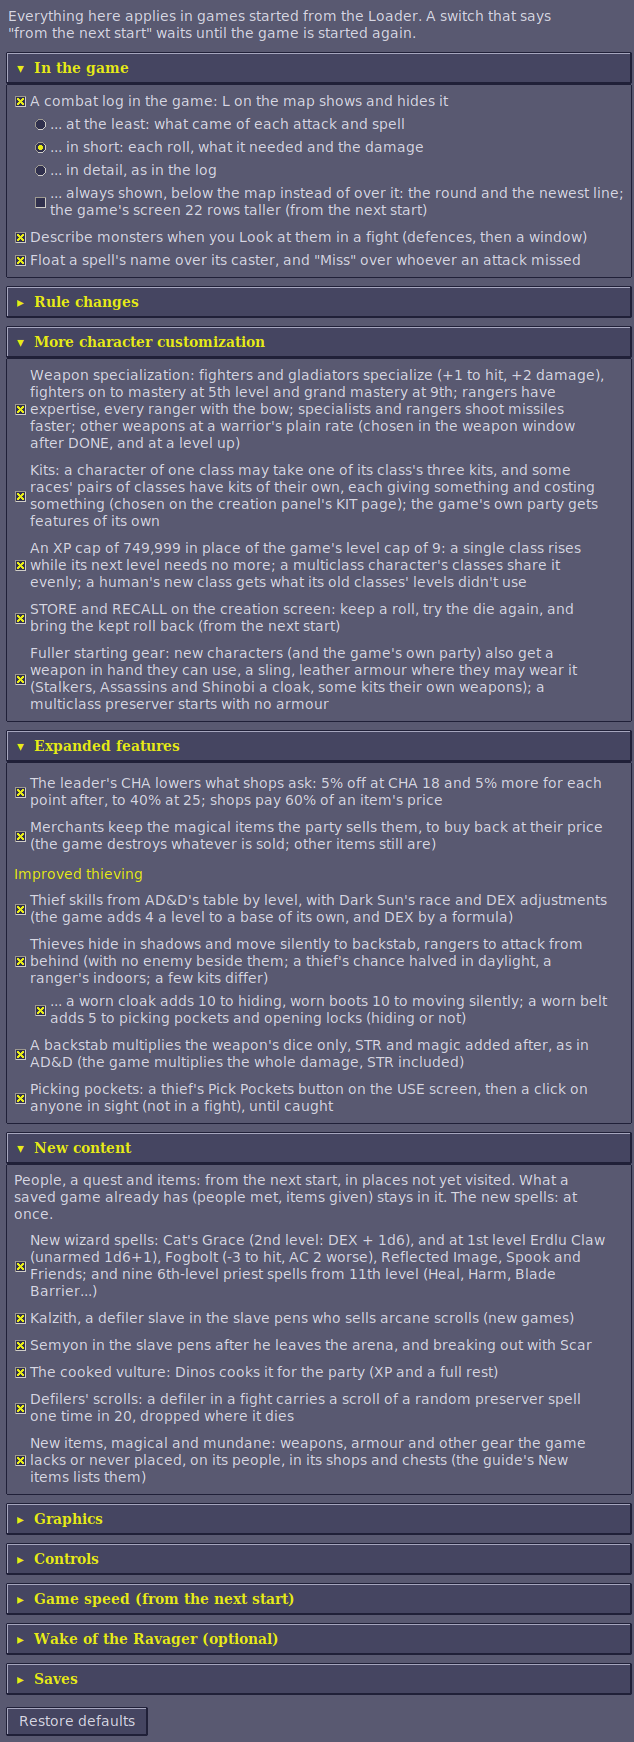
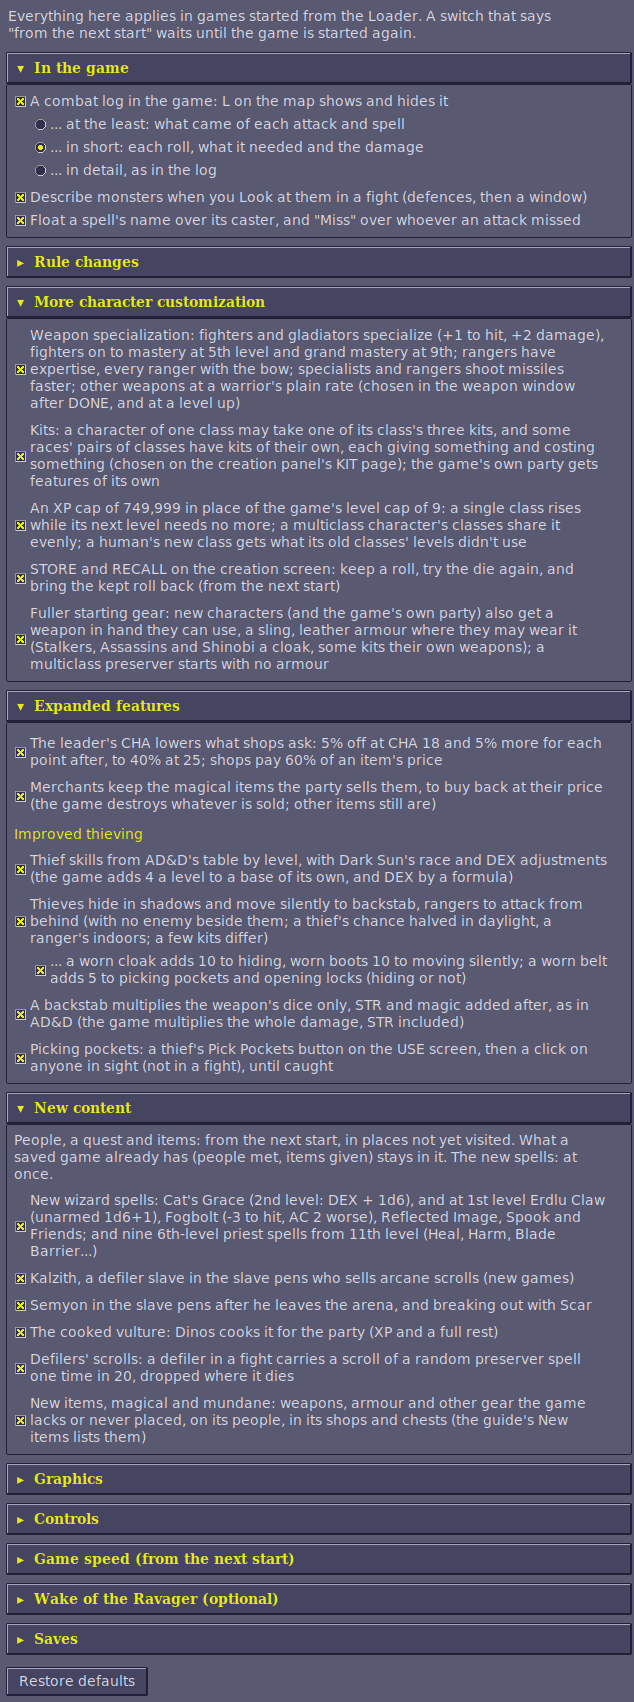
Docs: trim repeated lists, match option labels, retake the Options tab shot
The Options tab screenshot still showed the combat log strip taken out in
pull request 60. Release-note lists in the front page and changelog now
point to the folder; the Loader README's More pages section folds into
Where to start; the in-game thief skills note AD&D's 95 cap.

Claude-Session: https://claude.ai/code/session_01BNiWkhyZSJPYsN3zRrweVp

Changed region(s): [[0.0, 0.0, 1.0, 0.9965]]

diff --git a/patch-notes.html b/patch-notes.html
@@ -115,7 +115,7 @@ footer { max-width: 1080px; margin: 0 auto; padding-block: 28px 56px; border-top
 <header class="banner">
   <div class="eyebrow">Dark Sun: Shattered Lands · Mod</div>
   <h1>Obsidian Edition<br>Patch Notes</h1>
-  <div class="meta">A Dark Sun: Shattered Lands mod · Current version 2.7.2 · Every change from the original game</div>
+  <div class="meta">A Dark Sun: Shattered Lands mod · Current version 2.7.2, and the changes since for the next release · Every change from the original game</div>
   <p class="lede">Obsidian Edition is a free mod for the GOG release of Dark Sun: Shattered Lands. It shows the rolls the game keeps hidden, brings its rules closer to AD&amp;D 2nd Edition, adds kits, weapons, magic items and people to Athas, dresses the party in what they wear, and fixes bugs left over since 1993. You start the game with the Loader, which loads the mod with your options and logs every roll as it happens. Everything is switchable, the game's own files are never touched, and your saves stay where they are.</p>
   <div class="actions">
     <a class="btn" href="https://github.com/daaki85/darksun-obsidian-edition/releases/latest">Download</a>
@@ -194,7 +194,7 @@ footer { max-width: 1080px; margin: 0 auto; padding-block: 28px 56px; border-top
 </section>
 <section id="quality-of-life">
 <h2>Quality of Life</h2>
-<ul><li><span class="tag new">New</span><strong>Tab</strong> chooses the nearest enemy and <strong>Enter</strong> attacks it, with no aiming of the mouse. A red ring marks the enemy chosen.</li><li><span class="tag new">New</span>Press the mouse wheel and drag to scroll the map.</li><li><span class="tag new">New</span>The game's pointer in the intro, its logos and its other scenes, and a click skips a scene as a key does <span class="was">(was no pointer, and only a key)</span>.</li><li><span class="tag chg">Changed</span>The pointer starts in the middle of the screen, stays where you leave it as screens change (the intro, menus, loading), moves as far up and down as across, and in a window as fast as your desktop's pointer <span class="was">(was at the screen's right edge, half as far up and down, and in a window three times as fast, so placing items in the inventory was fiddly)</span>.</li><li><span class="tag chg">Changed</span>The pointer pauses less after you pick up or put down an item in the inventory: about 45 ms putting down, 65 picking up <span class="was">(was 55 to 105 ms, then a jump)</span>.</li><li><span class="tag chg">Changed</span>In a fight the view stays put while a figure walks, moving only to bring back one that walks off the screen <span class="was">(was following each one near the edge)</span>.</li><li><span class="tag chg">Changed</span>40 save slots on four pages <span class="was">(was 10)</span>, each also kept under its name in a folder of the Loader's, and 29 stored characters <span class="was">(was 19)</span>.</li><li><span class="tag new">New</span>A game speed setting, so the whole party walks as smoothly as one.</li><li><span class="tag new">New</span>Crash reports: if the game stops with an error, the message stays on screen and a report is written, with the game's own error message and how much memory it had left; if it freezes, a freeze report saves what it was doing; if DOSBox closes while the game still runs, a report says so.</li><li><span class="tag new">New</span>A warning when memory runs low: the dice log tells you to save and restart before the game runs out (a fresh start has all of it back).</li><li><span class="tag new">New</span>Item reports: if an item vanishes from the party with nothing ordinary to explain it (not dropped, given, sold, used up or broken), or the game destroys one (acid, Detonate's blast), the Loader saves a report in <code>crash-logs</code>, as it does for a crash, and says so in the dice log.</li><li><span class="tag new">New</span>The game's window at double, triple or quadruple size, or full screen, chosen in the Loader.</li><li><span class="tag chg">Changed</span>No more copy protection: the dragon asking for a word from the manual never comes.</li></ul>
+<ul><li><span class="tag new">New</span><strong>Tab</strong> chooses the nearest enemy and <strong>Enter</strong> attacks it, with no aiming of the mouse. A red ring marks the enemy chosen.</li><li><span class="tag new">New</span>Press the mouse wheel and drag to scroll the map.</li><li><span class="tag new">New</span>The game's pointer in the intro, its logos and its other scenes, and a click skips a scene as a key does <span class="was">(was no pointer, and only a key)</span>.</li><li><span class="tag chg">Changed</span>The pointer starts in the middle of the screen, stays where you leave it as screens change (the intro, menus, loading), moves as far up and down as across, and in a window as fast as your desktop's pointer <span class="was">(was at the screen's right edge, half as far up and down, and in a window three times as fast, so placing items in the inventory was fiddly)</span>.</li><li><span class="tag chg">Changed</span>The pointer stands still for less time after you pick up or put down an item in the inventory, so it jumps less far when it moves again <span class="was">(was up to a tenth of a second)</span>.</li><li><span class="tag chg">Changed</span>In a fight the view stays put while a figure walks, moving only to bring back one that walks off the screen <span class="was">(was following each one near the edge)</span>.</li><li><span class="tag chg">Changed</span>40 save slots on four pages <span class="was">(was 10)</span>, each also kept under its name in a folder of the Loader's, and 29 stored characters <span class="was">(was 19)</span>.</li><li><span class="tag new">New</span>A game speed setting, so the whole party walks as smoothly as one.</li><li><span class="tag new">New</span>Crash reports: if the game stops with an error, the message stays on screen and a report is written, with the game's own error message and how much memory it had left; if it freezes, a freeze report saves what it was doing; if DOSBox closes while the game still runs, a report says so.</li><li><span class="tag new">New</span>A warning when memory runs low: the dice log tells you to save and restart before the game runs out (a fresh start has all of it back).</li><li><span class="tag new">New</span>Item reports: if an item vanishes from the party with nothing ordinary to explain it (not dropped, given, sold, used up or broken), or the game destroys one (acid, Detonate's blast), the Loader saves a report in <code>crash-logs</code>, as it does for a crash, and says so in the dice log.</li><li><span class="tag new">New</span>The game's window at double, triple or quadruple size, or full screen, chosen in the Loader.</li><li><span class="tag chg">Changed</span>No more copy protection: the dragon asking for a word from the manual never comes.</li></ul>
 </section>
 <section id="the-loader">
 <h2>The Loader</h2>
@@ -220,7 +220,7 @@ footer { max-width: 1080px; margin: 0 auto; padding-block: 28px 56px; border-top
 <textarea id="md" aria-hidden="true" tabindex="-1"></textarea>
 <script type="text/markdown" id="source"># Obsidian Edition: Patch Notes
 
-*A Dark Sun: Shattered Lands mod · Current version 2.7.2 · Every change from the original game*
+*A Dark Sun: Shattered Lands mod · Current version 2.7.2, and the changes since for the next release · Every change from the original game*
 
 Obsidian Edition is a free mod for the GOG release of Dark Sun: Shattered Lands. It shows the rolls the game keeps hidden, brings its rules closer to AD&D 2nd Edition, adds kits, weapons, magic items and people to Athas, dresses the party in what they wear, and fixes bugs left over since 1993. You start the game with the Loader, which loads the mod with your options and logs every roll as it happens. Everything is switchable, the game's own files are never touched, and your saves stay where they are.
 
@@ -471,7 +471,7 @@ The plain weapons the game never had, sold by merchants and carried across Athas
 - **[New]** Press the mouse wheel and drag to scroll the map.
 - **[New]** The game's pointer in the intro, its logos and its other scenes, and a click skips a scene as a key does *(was no pointer, and only a key)*.
 - **[Changed]** The pointer starts in the middle of the screen, stays where you leave it as screens change (the intro, menus, loading), moves as far up and down as across, and in a window as fast as your desktop's pointer *(was at the screen's right edge, half as far up and down, and in a window three times as fast, so placing items in the inventory was fiddly)*.
-- **[Changed]** The pointer pauses less after you pick up or put down an item in the inventory: about 45 ms putting down, 65 picking up *(was 55 to 105 ms, then a jump)*.
+- **[Changed]** The pointer stands still for less time after you pick up or put down an item in the inventory, so it jumps less far when it moves again *(was up to a tenth of a second)*.
 - **[Changed]** In a fight the view stays put while a figure walks, moving only to bring back one that walks off the screen *(was following each one near the edge)*.
 - **[Changed]** 40 save slots on four pages *(was 10)*, each also kept under its name in a folder of the Loader's, and 29 stored characters *(was 19)*.
 - **[New]** A game speed setting, so the whole party walks as smoothly as one.

diff --git a/obsidian-edition/README.md b/obsidian-edition/README.md
@@ -15,7 +15,8 @@ in DOSBox. You start the game with the **Dark Sun Obsidian Edition Loader**
   wrong](#when-something-goes-wrong).
 - **Everything in detail:** the contents below, the [features and
   rules](FEATURES.md), the [kits](KITS.md), the [items](ITEMS.md) (spoilers),
-  the [patch
+  [how the original game works](HOW-THE-GAME-WORKS.md), from its code, the
+  [patch
   notes](https://github.com/daaki85/darksun-obsidian-edition/blob/main/PATCH-NOTES.md)
   and, for developers, the [development notes](DEVELOPMENT.md).
 
@@ -48,7 +49,6 @@ in DOSBox. You start the game with the **Dark Sun Obsidian Edition Loader**
   - [The Spells tab](#the-spells-tab)
   - [The Dialogue tab](#the-dialogue-tab)
 - [The dice log](#the-dice-log)
-- [More pages](#more-pages)
 - [Accessibility](#accessibility)
 
 ## What it does
@@ -487,7 +487,8 @@ change.
   fails and a 20 always saves, so they show between 2 and 20.
 - **Thief skills**: as they stand (with no equipment penalty in games started
   with the dice log: see [How the game works out thief
-  skills](HOW-THE-GAME-WORKS.md#how-the-game-works-out-thief-skills)), 0 for a
+  skills](HOW-THE-GAME-WORKS.md#how-the-game-works-out-thief-skills)), at most
+  95 with [AD&D's table](FEATURES.md#thief-skills-from-adds-table), 0 for a
   skill an effect rules out or when the thief isn't Okay (New counts as Okay),
   and 100 for one an effect makes certain (Detect Traps). Only the situation's
   bonus or penalty (a hard lock) is left out: the dice log shows it on each
@@ -607,7 +608,7 @@ open it, ▸ when closed and ▾ when open. Which sections are open is remembere
 Everything there applies in games started from the Loader; a switch that says
 "from the next start" waits until the game is started again. The sections:
 
-- **In the game**: the combat log, where it goes and how much it says, names
+- **In the game**: the combat log and how much it says, names
   floating over figures, monster descriptions ([In the game](#in-the-game)).
 - **Rule changes** ([Rule changes](FEATURES.md#rule-changes)): the game's rules
   closer to AD&D.
@@ -895,14 +896,6 @@ more. The Dialogue tab does the same.
 randomises (creatures wandering, animations and so on), as raw numbers with
 where in the game's code they came from. It's noisy, but useful for finding
 more rolls worth labelling.
-
-## More pages
-
-- [How the game works](HOW-THE-GAME-WORKS.md): what the original game does
-  that its manual doesn't say, from its code and checked in play (initiative,
-  spells and psionics, monsters' defences, thief skills, saving throws...).
-- [Items](ITEMS.md) (spoilers): every magic item and every mundane weapon, the
-  game's and the mod's, with their icons and where each is.
 
 ## Accessibility
 

diff --git a/PATCH-NOTES.md b/PATCH-NOTES.md
@@ -1,6 +1,6 @@
 # Obsidian Edition: Patch Notes
 
-*A Dark Sun: Shattered Lands mod · Current version 2.7.2 · Every change from the original game*
+*A Dark Sun: Shattered Lands mod · Current version 2.7.2, and the changes since for the next release · Every change from the original game*
 
 Obsidian Edition is a free mod for the GOG release of Dark Sun: Shattered Lands. It shows the rolls the game keeps hidden, brings its rules closer to AD&D 2nd Edition, adds kits, weapons, magic items and people to Athas, dresses the party in what they wear, and fixes bugs left over since 1993. You start the game with the Loader, which loads the mod with your options and logs every roll as it happens. Everything is switchable, the game's own files are never touched, and your saves stay where they are.
 
@@ -251,7 +251,7 @@ The plain weapons the game never had, sold by merchants and carried across Athas
 - **[New]** Press the mouse wheel and drag to scroll the map.
 - **[New]** The game's pointer in the intro, its logos and its other scenes, and a click skips a scene as a key does *(was no pointer, and only a key)*.
 - **[Changed]** The pointer starts in the middle of the screen, stays where you leave it as screens change (the intro, menus, loading), moves as far up and down as across, and in a window as fast as your desktop's pointer *(was at the screen's right edge, half as far up and down, and in a window three times as fast, so placing items in the inventory was fiddly)*.
-- **[Changed]** The pointer pauses less after you pick up or put down an item in the inventory: about 45 ms putting down, 65 picking up *(was 55 to 105 ms, then a jump)*.
+- **[Changed]** The pointer stands still for less time after you pick up or put down an item in the inventory, so it jumps less far when it moves again *(was up to a tenth of a second)*.
 - **[Changed]** In a fight the view stays put while a figure walks, moving only to bring back one that walks off the screen *(was following each one near the edge)*.
 - **[Changed]** 40 save slots on four pages *(was 10)*, each also kept under its name in a folder of the Loader's, and 29 stored characters *(was 19)*.
 - **[New]** A game speed setting, so the whole party walks as smoothly as one.

diff --git a/README.md b/README.md
@@ -31,12 +31,9 @@ name.)
 
 ## What it does
 
-It shows the rolls the game keeps hidden, brings its rules closer to AD&D 2nd
-Edition, adds kits, weapon specialization, spells, items and people to Athas,
-dresses the party in what they wear, and fixes the game's bugs. Every rule
-change and addition has a switch. The full list is in
-[What it does](obsidian-edition/README.md#what-it-does), and every change from
-the original game in the [patch notes](PATCH-NOTES.md).
+The full list is in [What it does](obsidian-edition/README.md#what-it-does),
+and every change from the original game in the [patch notes](PATCH-NOTES.md).
+Every rule change and addition has a switch on the Loader's Options tab.
 
 The game's own files are never modified: the Loader runs a patched copy of the
 game from its own folder. It writes to the game folder only your saves (pages
@@ -79,14 +76,7 @@ their own; levels capped by XP instead of at 9th, so priests reach 11th and
 Spellarcher's spell arrows; three new magic items; and more of the original
 game's bugs fixed, three script bugs among them.
 
-Every release has notes of its own: [2.7.2](release-notes/v2.7.2.md),
-[2.7.1](release-notes/v2.7.1.md), [2.7.0](release-notes/v2.7.0.md),
-[2.6.0](release-notes/v2.6.0.md), [2.5.0](release-notes/v2.5.0.md),
-[2.4.0](release-notes/v2.4.0.md), [2.3.0](release-notes/v2.3.0.md),
-[2.2.1](release-notes/v2.2.1.md), [2.2.0](release-notes/v2.2.0.md),
-[2.1.1](release-notes/v2.1.1.md), [2.1.0](release-notes/v2.1.0.md),
-[2.0.0](release-notes/v2.0.0.md), [1.2.0](release-notes/v1.2.0.md),
-[1.1.0](release-notes/v1.1.0.md) and [1.0.0](release-notes/v1.0.0.md). The
+Every release has notes of its own, in [`release-notes`](release-notes); the
 [patch notes](PATCH-NOTES.md) have every change from the original game in one
 page, whatever the version.
 

diff --git a/CHANGELOG.md b/CHANGELOG.md
@@ -2,12 +2,9 @@
 
 What changed in Obsidian Edition (called Templar's Ledger up to 1.2.0), pull
 request by pull request, newest first: the record for developers and testers.
-For what a release brings, read its notes ([2.7.2](release-notes/v2.7.2.md), [2.7.1](release-notes/v2.7.1.md), [2.7.0](release-notes/v2.7.0.md), [2.6.0](release-notes/v2.6.0.md), [2.5.0](release-notes/v2.5.0.md), [2.4.0](release-notes/v2.4.0.md), [2.3.0](release-notes/v2.3.0.md),
-[2.2.1](release-notes/v2.2.1.md), [2.2.0](release-notes/v2.2.0.md),
-[2.1.1](release-notes/v2.1.1.md), [2.1.0](release-notes/v2.1.0.md),
-[2.0.0](release-notes/v2.0.0.md), [1.2.0](release-notes/v1.2.0.md),
-[1.1.0](release-notes/v1.1.0.md) and [1.0.0](release-notes/v1.0.0.md)); for every
-change from the original game in one page, [the patch notes](PATCH-NOTES.md).
+For what a release brings, read its notes, in [`release-notes`](release-notes);
+for every change from the original game in one page, [the patch
+notes](PATCH-NOTES.md).
 
 ## Next pull request (in progress)
 

diff --git a/obsidian-edition/FEATURES.md b/obsidian-edition/FEATURES.md
@@ -891,8 +891,8 @@ How it works: [DEVELOPMENT.md](DEVELOPMENT.md#the-leaders-cha-at-shops).
 
 ### Buying back magical items
 
-The game destroys whatever the party sells. With **Merchants keep magical
-items sold to them** ticked, a magical item sold (one with a plus, or a power:
+The game destroys whatever the party sells. With **Merchants keep the magical
+items the party sells them** ticked, a magical item sold (one with a plus, or a power:
 a ring, a wand, a scroll...) goes into the merchant's pack instead, and the
 shop offers it for sale at its price, less the leader's CHA discount, so it
 can be bought back. Anything else sold is gone, as in the game. With the CHA
